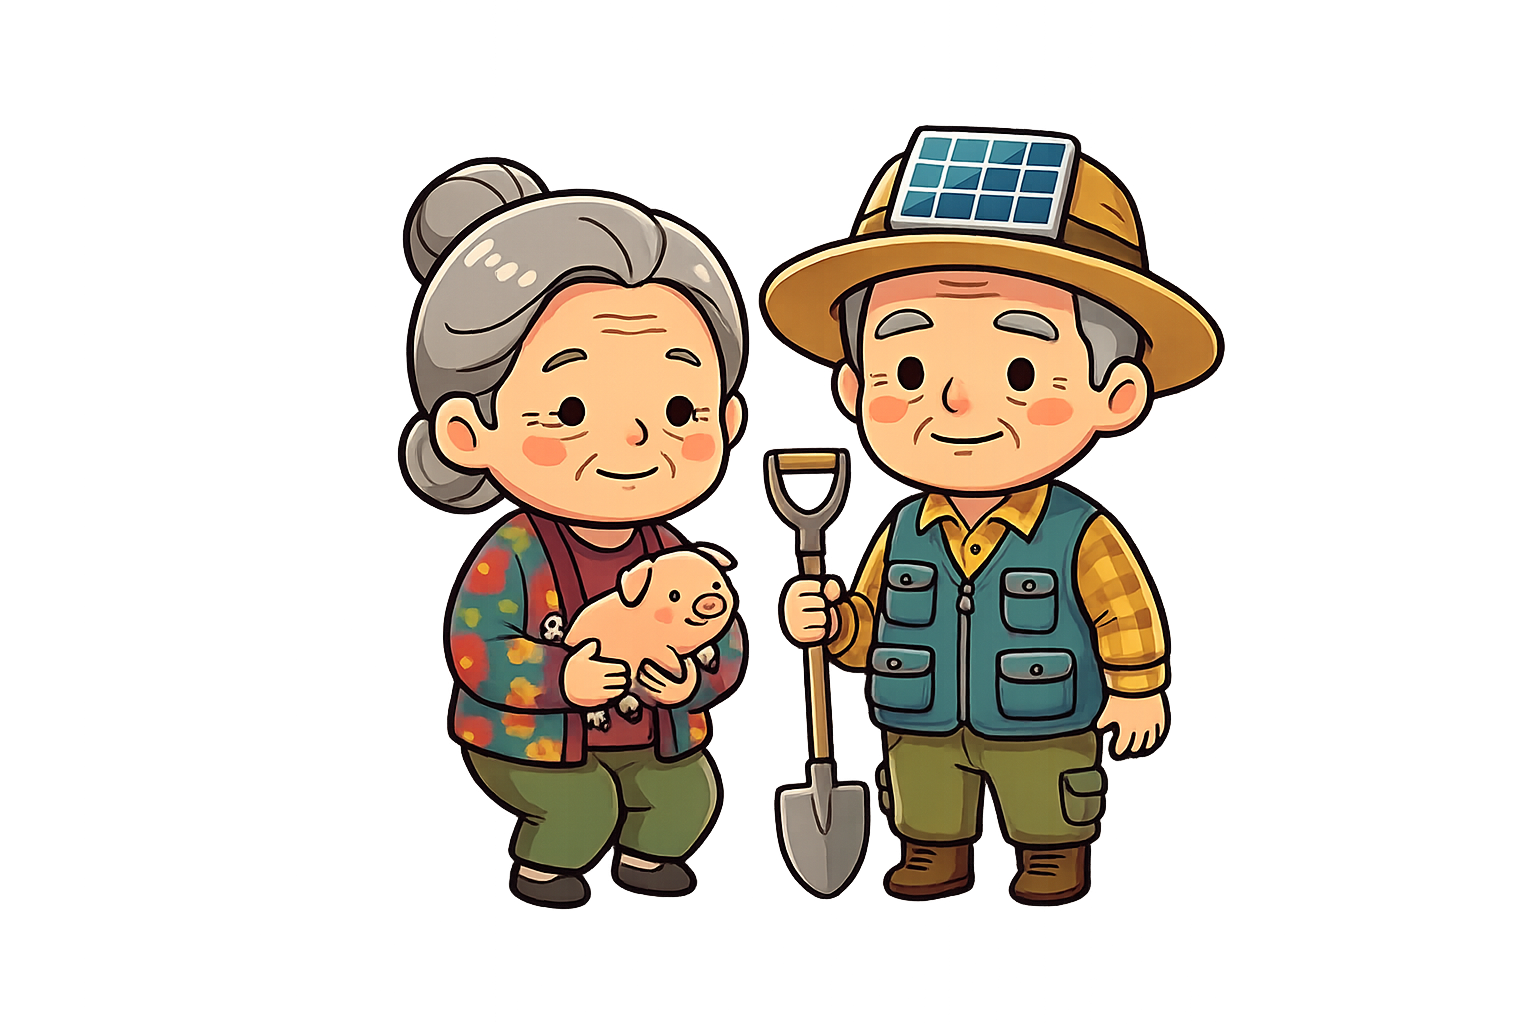
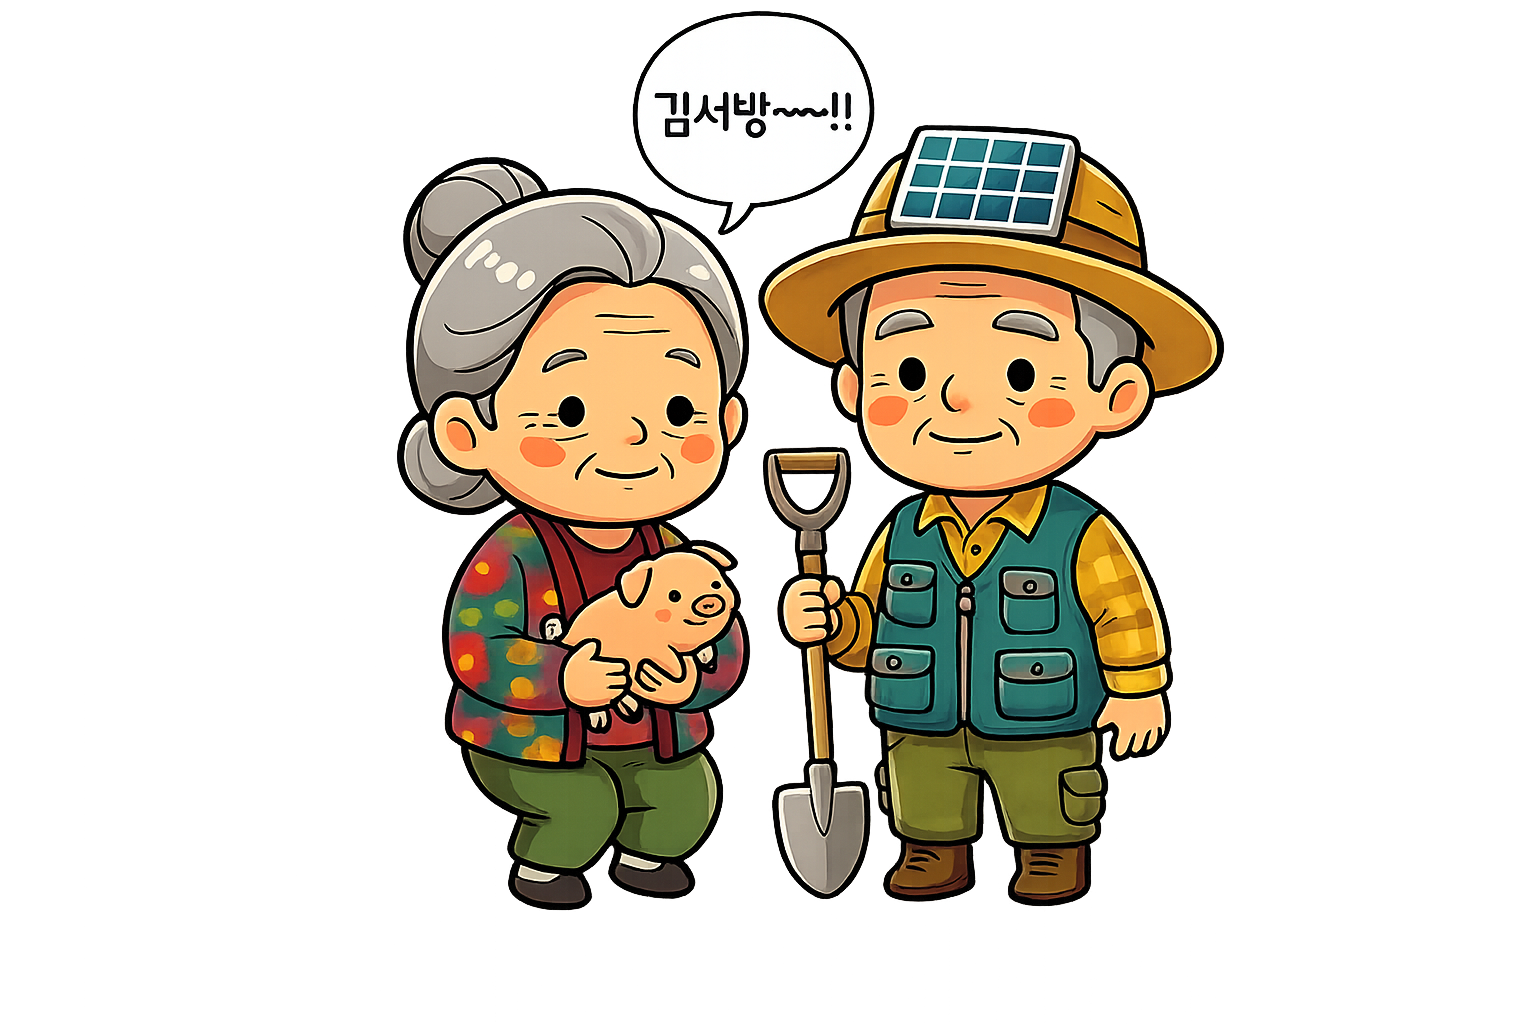
feat(test): 최종 commit 작성

diff --git a/chatbot_page.py b/chatbot_page.py
@@ -1,48 +1,161 @@
 import streamlit as st
-from ingest import ingest_docs  # 만약 ingest_docs 위치가 다르면 경로 맞춰주기
+import random
+from ingest import ingest_docs
+
+# ── 질문 뱅크 ────────────────────────────────────────────────────────────────
+QUESTION_BANK = [
+    # 보조금
+    {"text": "분뇨 처리 보조금 얼마나 받을 수 있어요?",       "category": "보조금"},
+    {"text": "보조금이랑 융자 같이 받을 수 있어요?",           "category": "보조금"},
+    {"text": "공동자원화시설은 지원금이 얼마예요?",            "category": "보조금"},
+    # 신청방법
+    {"text": "보조금 신청은 어디에 가서 해요?",                "category": "신청방법"},
+    {"text": "신청할 때 어떤 서류가 필요해요?",                "category": "신청방법"},
+    {"text": "신청하면 어떤 절차로 진행돼요?",                 "category": "신청방법"},
+    {"text": "선정되면 어떻게 알려줘요?",                      "category": "신청방법"},
+    {"text": "우리 농장이 신청 자격이 되는지 어떻게 알아요?",  "category": "신청방법"},
+    # 시설장비
+    {"text": "악취 줄이는 시설도 보조금 나와요?",              "category": "시설장비"},
+    {"text": "바이오가스 만드는 시설도 지원받을 수 있어요?",   "category": "시설장비"},
+    {"text": "정화 처리 시설도 보조 대상이에요?",              "category": "시설장비"},
+    # 사후관리
+    {"text": "보조금 받은 뒤에 지켜야 할 게 있어요?",          "category": "사후관리"},
+    {"text": "보조금 받은 장비를 팔면 어떻게 돼요?",           "category": "사후관리"},
+    {"text": "사업 도중에 그만두면 어떻게 돼요?",              "category": "사후관리"},
+    {"text": "잘못 받으면 어떤 불이익이 있어요?",              "category": "사후관리"},
+    {"text": "시설 유지·관리 의무가 몇 년이나 돼요?",          "category": "사후관리"},
+    # 환경/자원화
+    {"text": "분뇨를 퇴비로 만들면 돈이 돼요?",               "category": "환경"},
+    {"text": "자연순환농업 사업이 뭐예요?",                    "category": "환경"},
+    {"text": "온실가스 줄이면 지원받을 수 있어요?",            "category": "환경"},
+    {"text": "바이오차가 뭐고 지원이 돼요?",                   "category": "환경"},
+]
+
+# 카테고리별 관련 카테고리 (답변 후 이 순서로 관련 질문 채움)
+RELATED_CATEGORIES = {
+    "보조금":   ["신청방법", "시설장비", "사후관리", "환경"],
+    "신청방법": ["보조금",   "시설장비", "사후관리"],
+    "시설장비": ["보조금",   "신청방법", "환경",     "사후관리"],
+    "사후관리": ["보조금",   "신청방법", "시설장비"],
+    "환경":     ["시설장비", "보조금",   "신청방법"],
+}
+
+CATEGORY_EMOJI = {
+    "보조금":   "💰",
+    "신청방법": "📋",
+    "시설장비": "🏭",
+    "사후관리": "📌",
+    "환경":     "🌱",
+}
+
+
+def _pick_related(current_category: str, exclude: set, n: int = 5) -> list:
+    """현재 카테고리 기반으로 관련 질문 n개 선택"""
+    related_cats = RELATED_CATEGORIES.get(current_category, list(RELATED_CATEGORIES.keys()))
+
+    # 현재 카테고리 질문 2개 + 관련 카테고리 질문 3개
+    same_pool    = [q for q in QUESTION_BANK if q["category"] == current_category and q["text"] not in exclude]
+    related_pool = [q for q in QUESTION_BANK if q["category"] in related_cats    and q["text"] not in exclude]
+
+    picked = random.sample(same_pool,    min(2, len(same_pool)))
+    picked += random.sample(related_pool, min(n - len(picked), len(related_pool)))
+
+    # 부족하면 전체에서 채움
+    if len(picked) < n:
+        rest = [q for q in QUESTION_BANK if q["text"] not in exclude and q not in picked]
+        picked += random.sample(rest, min(n - len(picked), len(rest)))
+
+    random.shuffle(picked)
+    return picked[:n]
+
+
+def _pick_random(exclude: set, n: int = 5) -> list:
+    pool = [q for q in QUESTION_BANK if q["text"] not in exclude]
+    return random.sample(pool, min(n, len(pool)))
+
 
 def show_chatbot_page(rag_service):
-    """
-    app.py에서 호출할 AI 챗봇 전용 페이지 UI 모듈
-    """
+    # ── 헤더 ──────────────────────────────────────────────────────────────────
     st.markdown('<p style="font-size:3rem; text-align:center; margin:0;">🤖</p>', unsafe_allow_html=True)
-    st.markdown('<h2 style="text-align: center; color: #FF914D; font-family: \'JejuDoldam\', sans-serif;">해말금 AI 비서 대화방</h2>', unsafe_allow_html=True)
-    st.caption("태양광 설치 비용, 투자금 회수 기간, 분뇨 처리 원리에 대해 자유롭게 질문해 보세요.")
+    st.markdown(
+        '<h2 style="text-align:center; color:#FF914D; font-family:\'JejuDoldam\', sans-serif;">김서방 대화방</h2>',
+        unsafe_allow_html=True,
+    )
+    st.caption("궁금한 항목을 눌러보세요. 관련 문서를 찾아 쉽게 설명해 드립니다.")
     st.write("---")
 
+    # ── RAG 문서 초기화 ────────────────────────────────────────────────────────
     if "db_initialized" not in st.session_state:
         st.session_state.db_initialized = False
 
     if not st.session_state.db_initialized:
-        current_count = rag_service.count_documents()
-        if current_count == 0:
-             with st.spinner("문서를 분석 중입니다. 잠시만 기다려주세요..."):
-                 saved_count = ingest_docs(rag_service)
-                 if saved_count > 0:
-                     st.success(f"✅ {saved_count}개의 문서 페이지를 학습했습니다.")
-                 else:
-                     st.warning("⚠ docs 폴더에 읽을 수 있는 PDF 문서가 없습니다.")
+        if rag_service.count_documents() == 0:
+            with st.spinner("문서를 분석 중입니다. 잠시만 기다려주세요..."):
+                saved = ingest_docs(rag_service)
+                if saved > 0:
+                    st.success(f"✅ {saved}개 문서 페이지를 학습했습니다.")
+                else:
+                    st.warning("⚠ docs 폴더에 읽을 수 있는 PDF 문서가 없습니다.")
         st.session_state.db_initialized = True
 
+    # ── 세션 상태 초기화 ───────────────────────────────────────────────────────
     if "messages" not in st.session_state:
         st.session_state.messages = [
-             {"role": "assistant", "content": "반가워요! 해말금 AI 비서입니다. ☀\n 프로젝트나 분석 수치에 대해 궁금한 점을 편하게 물어보세요."}
+            {"role": "assistant", "content": "어서오세요, 저는 김서방입니다요~ 🌾\n축산 분뇨 처리 보조금이나 시설 관련해서 궁금하신 거 있으면 뭐든 물어보세요!"}
         ]
+    if "suggested_questions" not in st.session_state:
+        st.session_state.suggested_questions = _pick_random(set())
+    if "asked_questions" not in st.session_state:
+        st.session_state.asked_questions = set()
+    if "pending_question" not in st.session_state:
+        st.session_state.pending_question = None
 
+    # ── 대화 내역 출력 ─────────────────────────────────────────────────────────
     for msg in st.session_state.messages:
         with st.chat_message(msg["role"]):
-             st.write(msg["content"])
+            st.write(msg["content"])
 
-    if user_query := st.chat_input("궁금한 점을 입력하세요 (예: 설치 비용 얼마야?)"):
+    # ── 버튼 클릭 → 답변 처리 ─────────────────────────────────────────────────
+    if st.session_state.pending_question:
+        q = st.session_state.pending_question
+        st.session_state.pending_question = None
+
         with st.chat_message("user"):
-             st.write(user_query)
-        st.session_state.messages.append({"role": "user", "content": user_query})
+            st.write(q["text"])
+        st.session_state.messages.append({"role": "user", "content": q["text"]})
 
         with st.chat_message("assistant"):
-             with st.spinner("관련 문서를 확인하고 있습니다..."):
-                 try:
-                     response = rag_service.ask(user_query)
-                 except Exception as e:
-                     response = f"죄송합니다. 답변을 생성하는 중 오류가 발생했습니다: {str(e)}"
-             st.write(response)
+            with st.spinner("관련 문서를 찾고 있습니다..."):
+                try:
+                    response = rag_service.ask(q["text"])
+                except Exception as e:
+                    response = f"죄송합니다. 오류가 발생했습니다: {e}"
+            st.write(response)
         st.session_state.messages.append({"role": "assistant", "content": response})
+
+        # 관련 질문으로 버튼 업데이트
+        st.session_state.asked_questions.add(q["text"])
+        st.session_state.suggested_questions = _pick_related(
+            q["category"], st.session_state.asked_questions
+        )
+        st.rerun()
+
+    # ── 질문 버튼 영역 ─────────────────────────────────────────────────────────
+    st.markdown(
+        "<p style='color:#888; font-size:0.9rem; margin-top:1.5rem; margin-bottom:0.5rem;'>"
+        "💬 <b>궁금한 것을 눌러보세요</b></p>",
+        unsafe_allow_html=True,
+    )
+
+    for i, q in enumerate(st.session_state.suggested_questions):
+        emoji = CATEGORY_EMOJI.get(q["category"], "❓")
+        if st.button(f"{emoji} {q['text']}", key=f"qbtn_{i}", use_container_width=True):
+            st.session_state.pending_question = q
+            st.rerun()
+
+    st.markdown("<div style='margin:0.5rem 0;'></div>", unsafe_allow_html=True)
+
+    # ── 다른 질문 보기 버튼 ────────────────────────────────────────────────────
+    if st.button("🔀 다른 질문 보기", key="shuffle_btn", use_container_width=False):
+        st.session_state.suggested_questions = _pick_random(st.session_state.asked_questions)
+        st.rerun()

diff --git a/app.py b/app.py
@@ -165,7 +165,7 @@ with st.sidebar:
     st.markdown("---")
     st.markdown("### 🤖 AI 비서에게 물어보기")
 
-    if st.button("💬 해말금 AI 비서 호출", use_container_width=True):
+    if st.button("💬 김서방 호출", use_container_width=True):
         st.session_state.current_page = "chatbot"
          
     st.image("farmers.png", use_container_width=True)
